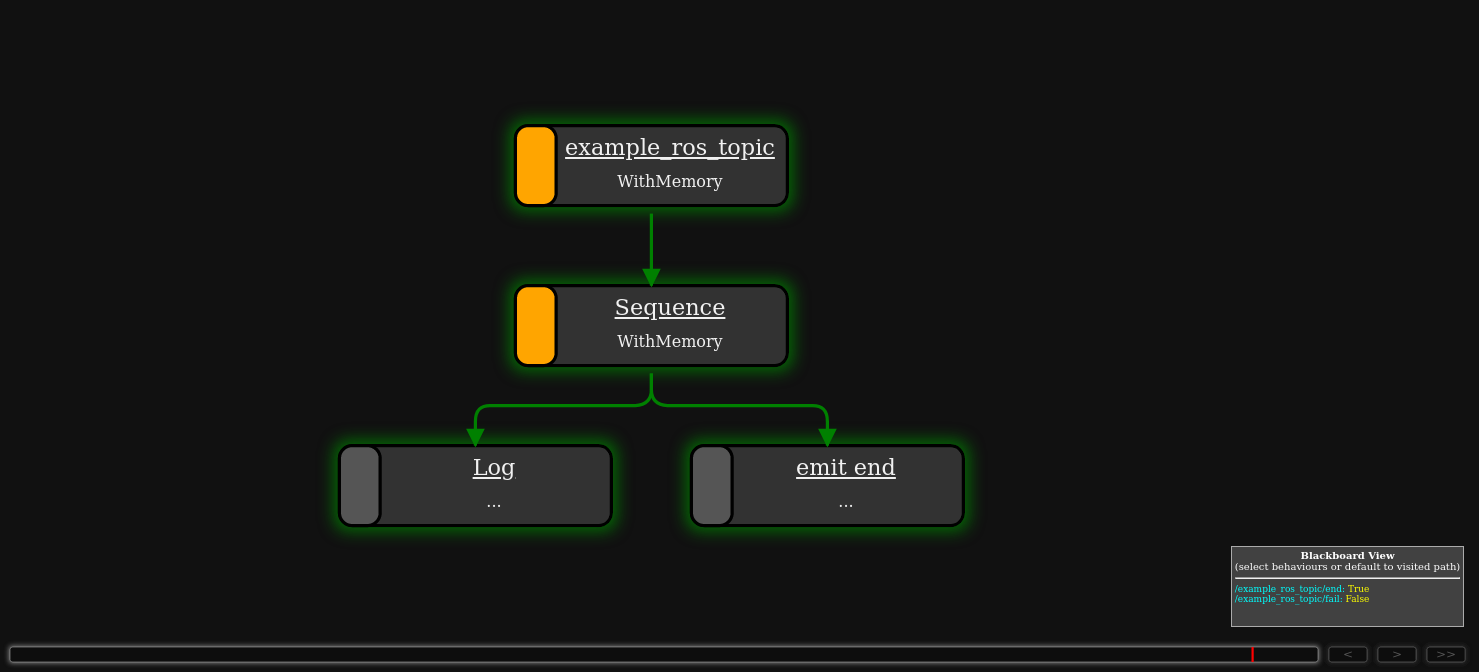
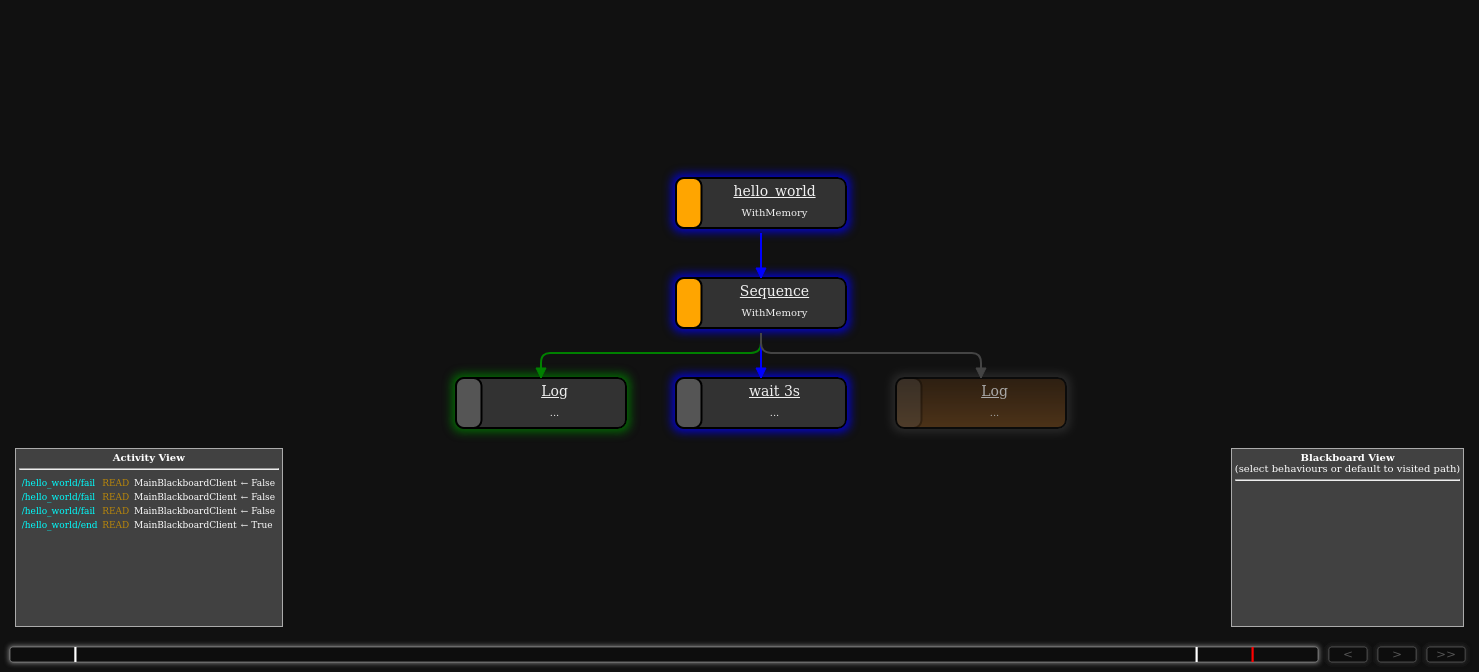
update image

Changed region(s): [[0.0, 0.1562, 0.7465, 0.9375], [0.8087, 0.6562, 0.9953, 0.9062]]

diff --git a/docs/how_to_run.rst b/docs/how_to_run.rst
@@ -29,9 +29,6 @@ information of py_trees and parser:
    ros2 run scenario_execution scenario_execution $(PATH_TO_SCENARIO_FILE) -t -d
 
 
-Using RVIZ to trigger scenario
-------------------------------
-
 Visualize Scenario with PyTrees ROS Viewer
 ------------------------------------------
 
@@ -80,7 +77,7 @@ Example:
 
 .. code-block:: bash
 
-      ros2 launch scenario_execution scenario_launch.py scenario:=examples/example_scenario/scenarios/example_log.osc
+      ros2 launch scenario_execution scenario_launch.py scenario:=examples/example_scenario/hello_word.osc
 
 .. figure:: images/py_tree_viewer.png
    :alt: Behavior Tree Viewer 
